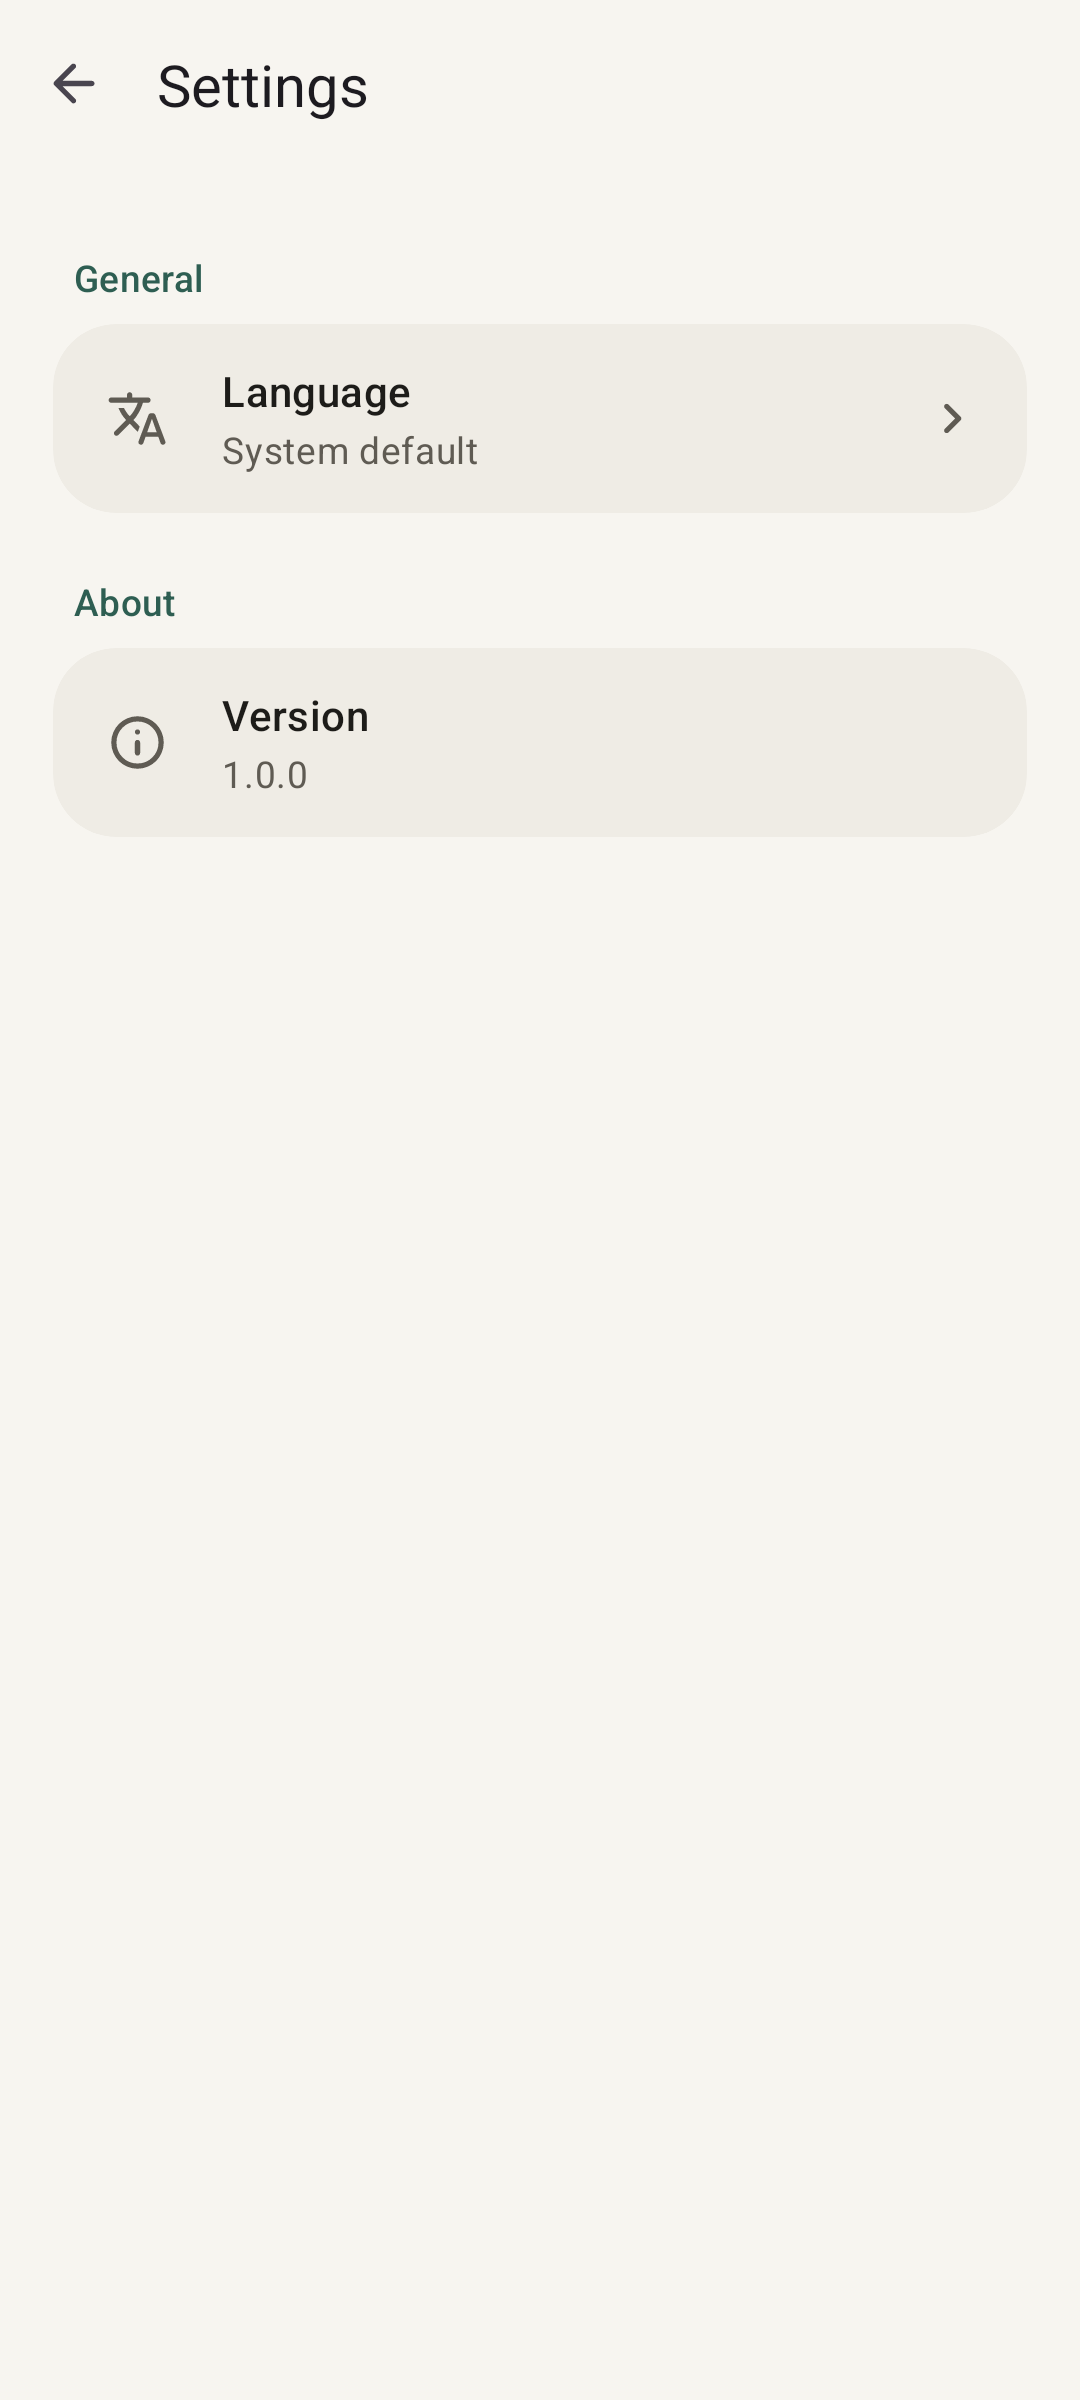
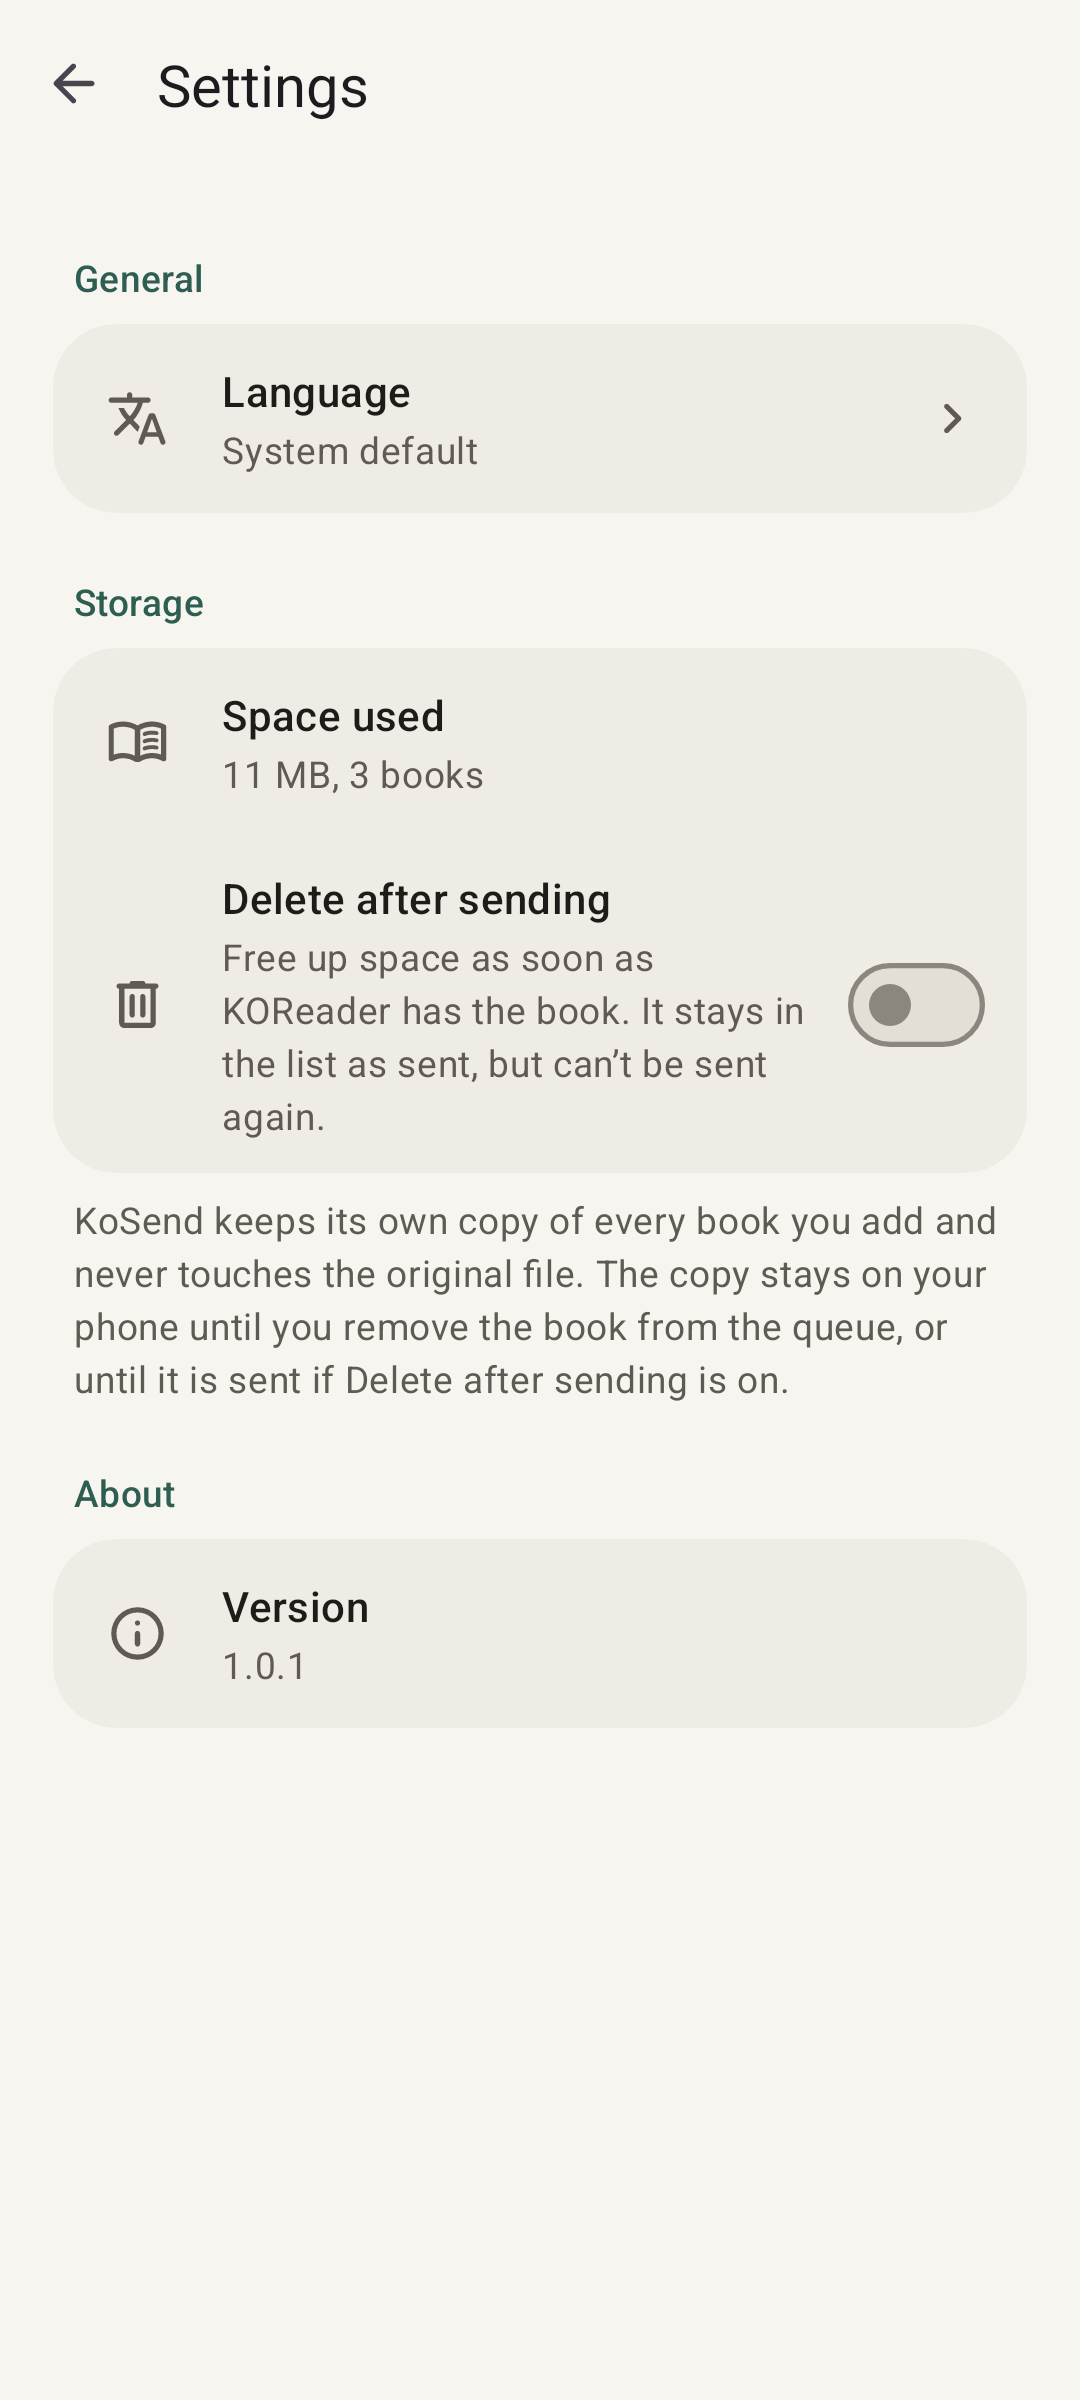
chore: updated settings page screenshot

diff --git a/app/src/test/java/dev/kosend/ReadmeScreenshots.kt b/app/src/test/java/dev/kosend/ReadmeScreenshots.kt
@@ -72,6 +72,8 @@ class ReadmeScreenshots {
         val view = paparazzi.inflate<View>(R.layout.activity_settings)
         view.findViewById<android.widget.TextView>(R.id.language_value).setText(R.string.language_system)
         view.findViewById<android.widget.TextView>(R.id.version_value).text = BuildConfig.VERSION_NAME
+        view.findViewById<android.widget.TextView>(R.id.storage_value).text = paparazzi.context.resources
+            .getQuantityString(R.plurals.settings_storage_value, 3, 3, formatSize(paparazzi.context, 11_330_000))
         paparazzi.snapshot(view)
     }
 
